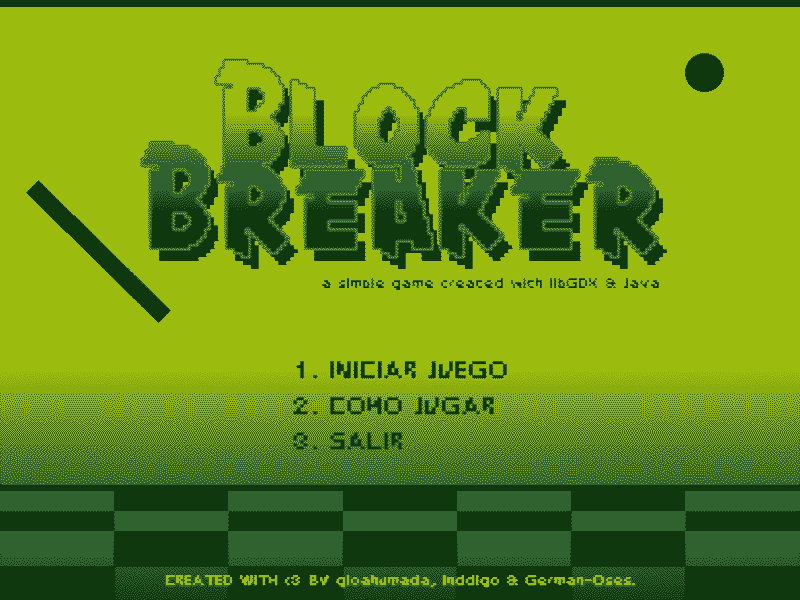
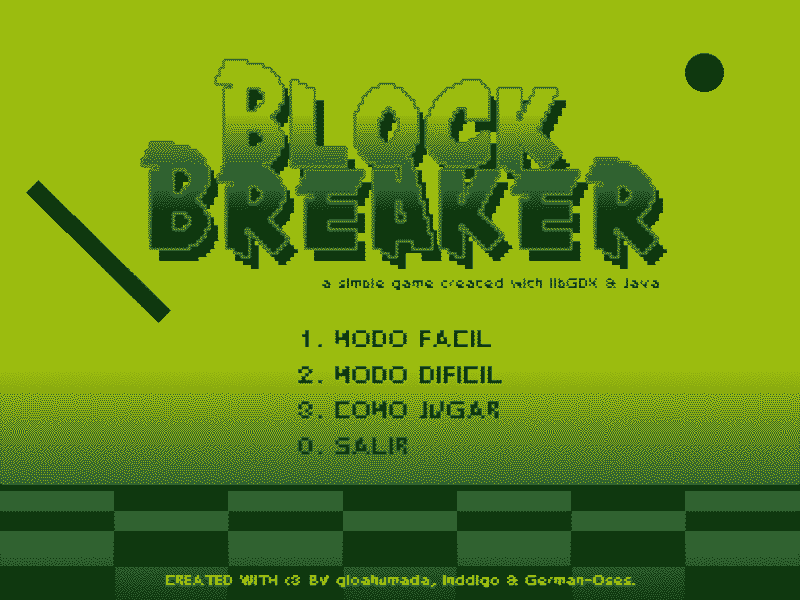
add Abstract Factory design & difficulty selection

diff --git a/BlockBreaker/core/src/main/java/puppy/code/game/BlockBreakerGame.java b/BlockBreaker/core/src/main/java/puppy/code/game/BlockBreakerGame.java
@@ -8,6 +8,9 @@ import puppy.code.blocks.HardBlock;
 import puppy.code.blocks.NormalBlock;
 import puppy.code.entities.Paddle;
 import puppy.code.entities.PingBall;
+import puppy.code.factory.GameElementFactory;
+import puppy.code.factory.EasyGameElementFactory;
+import puppy.code.factory.HardGameElementFactory;
 import puppy.code.interfaces.Damageable;
 import puppy.code.powerups.*;
 import puppy.code.screens.*;
@@ -99,6 +102,11 @@ public class BlockBreakerGame extends ApplicationAdapter {
 
     private GameNotification gameNotification;
 
+    private GameElementFactory gameElementFactory;
+    private String dificultad = "FACIL"; // Por defecto
+
+    private boolean mostrandoTutorial = false;
+
     @Override
     public void create() {
         camera = new OrthographicCamera();
@@ -134,23 +142,31 @@ public class BlockBreakerGame extends ApplicationAdapter {
     }
 
     public void iniciarJuego() {
+        // Establecer la fábrica según la dificultad seleccionada
+        gameElementFactory = dificultad.equals("FACIL") ? 
+            new EasyGameElementFactory() : 
+            new HardGameElementFactory();
+
+        // Reiniciar variables del juego
         nivel = 1;
-        vidas = 3;
         puntaje = 0;
-        puntajeMaximo = 0;
+        vidas = gameElementFactory.getInitialLives();
+        
+        // Inicializar la bola con la velocidad correspondiente
+        float ballSpeed = gameElementFactory.getBallSpeed();
+        ball = new PingBall(400, 50, 10, (int)ballSpeed, (int)ballSpeed, true);
+        
+        // Inicializar la paleta
+        pad = new Paddle(350, 20, 100, 10);
+        
+        // Crear los bloques iniciales
+        crearBloques(5);
+        
+        // Reiniciar estado del juego
         nivelCompletado = false;
-        gameOver = false;
-
-        pad = new Paddle(Gdx.graphics.getWidth() / 2 - 50, 40, 100, 10);
-        int velocidadBase = 5 + nivel;
-        ball = new PingBall(Gdx.graphics.getWidth() / 2 - 10, pad.getY() + pad.getHeight() + 11, 10, velocidadBase, velocidadBase, true);
-
-        crearBloques(2 + nivel);
-        bolasActivas.clear();
-        bolasActivas.add(ball);
-
-        menuPrincipal = true;
-        tutorialActivo = false;
+        powerUpBolaExtraActivado = false;
+        powerUpRalentizacionActivado = false;
+        vidaExtraGenerada = false;
     }
 
         public void crearBloques(int filas) {
@@ -161,11 +177,7 @@ public class BlockBreakerGame extends ApplicationAdapter {
         for (int cont = 0; cont < filas; cont++) {
             y -= blockHeight + 10;
             for (int x = 5; x < Gdx.graphics.getWidth(); x += blockWidth + 10) {
-                if (Math.random() > 0.8) {
-                    blocks.add(new HardBlock(x, y, blockWidth, blockHeight));
-                } else {
-                    blocks.add(new NormalBlock(x, y, blockWidth, blockHeight));
-                }
+                blocks.add(gameElementFactory.createBlock(x, y, blockWidth, blockHeight));
             }
         }
     }
@@ -326,19 +338,8 @@ public class BlockBreakerGame extends ApplicationAdapter {
 
     // Método para generar power-ups aleatorios
     private void generarPowerUp(int x, int y) {
-        double random = Math.random();
-        if (random < 0.2) {  // 20% de probabilidad de generar un power-up
-            if (!vidaExtraGenerada && Math.random() < 0.2) {  // 20% de posibilidad si no ha aparecido
-                fallingPowerUps.add(new ExtraLifePowerUp(x, y));
-                vidaExtraGenerada = true;
-            } else {
-                double powerUpRandom = Math.random();
-                if (powerUpRandom < 0.5) {
-                    fallingPowerUps.add(new TripleBallPowerUp(x, y));
-                } else {
-                    fallingPowerUps.add(new SpeedUpPowerUp(x, y));
-                }
-            }
+        if (Math.random() < 0.2) {  // 20% de probabilidad de generar un power-up
+            fallingPowerUps.add(gameElementFactory.createPowerUp(x, y));
         }
     }
 
@@ -502,15 +503,27 @@ public class BlockBreakerGame extends ApplicationAdapter {
     private void cambiarEstrategia() {
         estrategiaActual = (estrategiaActual + 1) % estrategias.length;
         MovementStrategy nuevaEstrategia = estrategias[estrategiaActual];
-        
+
         for (PingBall bola : bolasActivas) {
             bola.setMovementStrategy(nuevaEstrategia);
         }
-        
+
         gameNotification.mostrarMovimiento(nuevaEstrategia.getClass().getSimpleName());
     }
 
     public void mostrarNotificacionPowerUp(String powerUpName) {
         gameNotification.mostrarPowerUp(powerUpName);
+    }
+
+    public void setDificultad(String dificultad) {
+        this.dificultad = dificultad;
+    }
+
+    public void mostrarTutorial() {
+        mostrandoTutorial = true;
+    }
+
+    public void salirTutorial() {
+        mostrandoTutorial = false;
     }
 }

diff --git a/BlockBreaker/core/src/main/java/puppy/code/screens/MainMenuScreen.java b/BlockBreaker/core/src/main/java/puppy/code/screens/MainMenuScreen.java
@@ -12,8 +12,6 @@ public class MainMenuScreen {
     private OrthographicCamera camera;
     private SpriteBatch batch;
     private Texture menuBackground;
-
-    // Nueva pantalla para el tutorial
     private TutorialScreen tutorialScreen;
 
     public MainMenuScreen(BlockBreakerGame game) {
@@ -22,12 +20,12 @@ public class MainMenuScreen {
         camera.setToOrtho(false, 800, 600);
         batch = new SpriteBatch();
         menuBackground = new Texture("mainscreen.png");
-
-        // Crear la pantalla del tutorial
         tutorialScreen = new TutorialScreen(game);
     }
 
     public void render() {
+        handleInput();
+        
         Gdx.gl.glClear(Gdx.gl.GL_COLOR_BUFFER_BIT);
         camera.update();
         batch.setProjectionMatrix(camera.combined);
@@ -35,20 +33,28 @@ public class MainMenuScreen {
         batch.begin();
         batch.draw(menuBackground, 0, 0, 800, 600);
         batch.end();
+    }
 
-        // Verificar si el usuario presiona el botón para empezar el juego o el tutorial
-        if (Gdx.input.isKeyPressed(Input.Keys.NUM_1)) {
+    private void handleInput() {
+        if (Gdx.input.isKeyJustPressed(Input.Keys.NUM_1)) {
+            game.setDificultad("FACIL");
             game.mainMenuMusic.stop();
-            game.gameMusic.setLooping(true);
             game.gameMusic.play();
             game.startGame();
-        } else if (Gdx.input.isKeyPressed(Input.Keys.NUM_2)) {
+        }
+        if (Gdx.input.isKeyJustPressed(Input.Keys.NUM_2)) {
+            game.setDificultad("DIFICIL");
             game.mainMenuMusic.stop();
-            game.tutorialMusic.setLooping(true);
+            game.gameMusic.play();
+            game.startGame();
+        }
+        if (Gdx.input.isKeyJustPressed(Input.Keys.NUM_3)) {
+            game.mainMenuMusic.stop();
             game.tutorialMusic.play();
             game.activarTutorial();
-        } else if (Gdx.input.isKeyPressed(Input.Keys.NUM_3)) {
-            Gdx.app.exit();  // Salir del juego
+        }
+        if (Gdx.input.isKeyJustPressed(Input.Keys.NUM_0)) {
+            Gdx.app.exit();
         }
     }
 

diff --git a/BlockBreaker/core/src/main/java/puppy/code/factory/EasyGameElementFactory.java b/BlockBreaker/core/src/main/java/puppy/code/factory/EasyGameElementFactory.java
@@ -1,0 +1,40 @@
+package puppy.code.factory;
+
+import puppy.code.blocks.Block;
+import puppy.code.blocks.HardBlock;
+import puppy.code.blocks.NormalBlock;
+import puppy.code.powerups.ExtraLifePowerUp;
+import puppy.code.powerups.FallingPowerUp;
+import puppy.code.powerups.SpeedUpPowerUp;
+import puppy.code.powerups.TripleBallPowerUp;
+
+public class EasyGameElementFactory implements GameElementFactory {
+    @Override
+    public Block createBlock(int x, int y, int width, int height) {
+        if (Math.random() > 0.9) {
+            return new HardBlock(x, y, width, height);
+        }
+        return new NormalBlock(x, y, width, height);
+    }
+
+    @Override
+    public FallingPowerUp createPowerUp(int x, int y) {
+        double random = Math.random();
+        if (random < 0.4) {
+            return new ExtraLifePowerUp(x, y);
+        } else if (random < 0.7) {
+            return new TripleBallPowerUp(x, y);
+        }
+        return new SpeedUpPowerUp(x, y);
+    }
+
+    @Override
+    public int getInitialLives() {
+        return 5;
+    }
+
+    @Override
+    public float getBallSpeed() {
+        return 5f;
+    }
+} 

diff --git a/BlockBreaker/core/src/main/java/puppy/code/factory/HardGameElementFactory.java b/BlockBreaker/core/src/main/java/puppy/code/factory/HardGameElementFactory.java
@@ -1,0 +1,40 @@
+package puppy.code.factory;
+
+import puppy.code.blocks.Block;
+import puppy.code.blocks.HardBlock;
+import puppy.code.blocks.NormalBlock;
+import puppy.code.powerups.ExtraLifePowerUp;
+import puppy.code.powerups.FallingPowerUp;
+import puppy.code.powerups.SpeedUpPowerUp;
+import puppy.code.powerups.TripleBallPowerUp;
+
+public class HardGameElementFactory implements GameElementFactory {
+    @Override
+    public Block createBlock(int x, int y, int width, int height) {
+        if (Math.random() > 0.6) {
+            return new HardBlock(x, y, width, height);
+        }
+        return new NormalBlock(x, y, width, height);
+    }
+
+    @Override
+    public FallingPowerUp createPowerUp(int x, int y) {
+        double random = Math.random();
+        if (random < 0.2) {
+            return new ExtraLifePowerUp(x, y);
+        } else if (random < 0.5) {
+            return new TripleBallPowerUp(x, y);
+        }
+        return new SpeedUpPowerUp(x, y);
+    }
+
+    @Override
+    public int getInitialLives() {
+        return 3;
+    }
+
+    @Override
+    public float getBallSpeed() {
+        return 7f;
+    }
+}

diff --git a/BlockBreaker/core/src/main/java/puppy/code/factory/GameElementFactory.java b/BlockBreaker/core/src/main/java/puppy/code/factory/GameElementFactory.java
@@ -1,0 +1,11 @@
+package puppy.code.factory;
+
+import puppy.code.blocks.Block;
+import puppy.code.powerups.FallingPowerUp;
+
+public interface GameElementFactory {
+    Block createBlock(int x, int y, int width, int height);
+    FallingPowerUp createPowerUp(int x, int y);
+    int getInitialLives();
+    float getBallSpeed();
+} 
